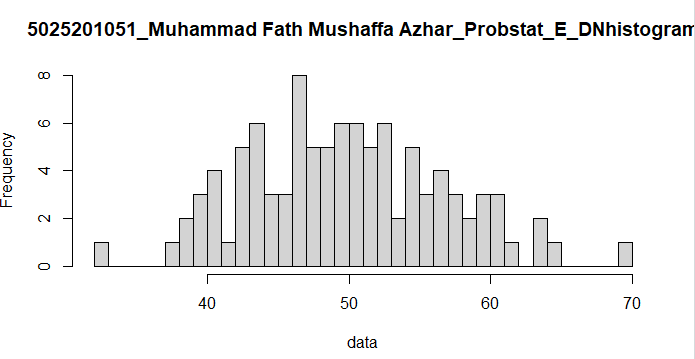
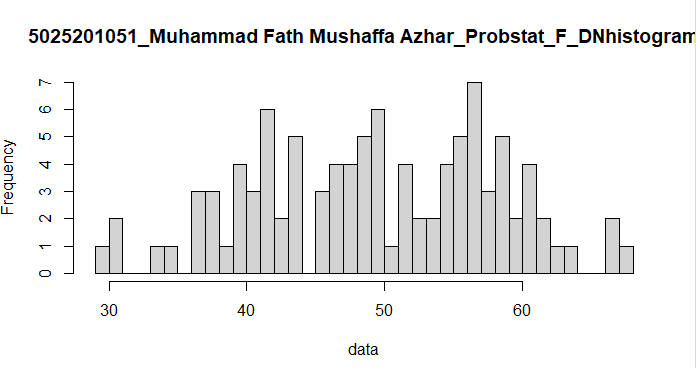
fix soal6

diff --git a/README.md b/README.md
@@ -140,7 +140,7 @@ plot(z_score, type = 'l', col='red')
 #### 6.b. Membuat histogram distribusi chi-square
 ```
 hist(data, 
-     main = "5025201051_Muhammad Fath Mushaffa Azhar_Probstat_E_DNhistogram",
+     main = "5025201051_Muhammad Fath Mushaffa Azhar_Probstat_F_DNhistogram",
      breaks = 50)
  ```
 
